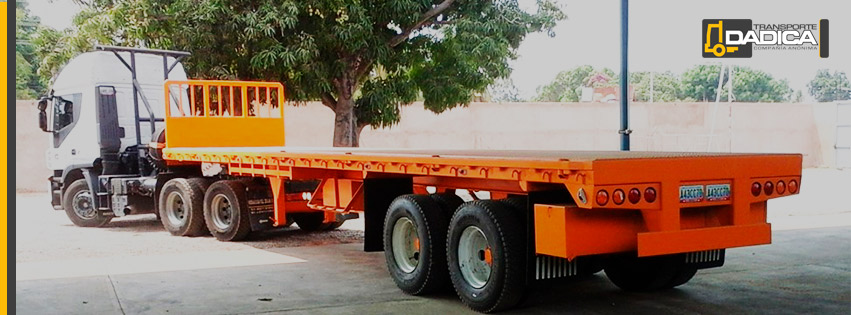
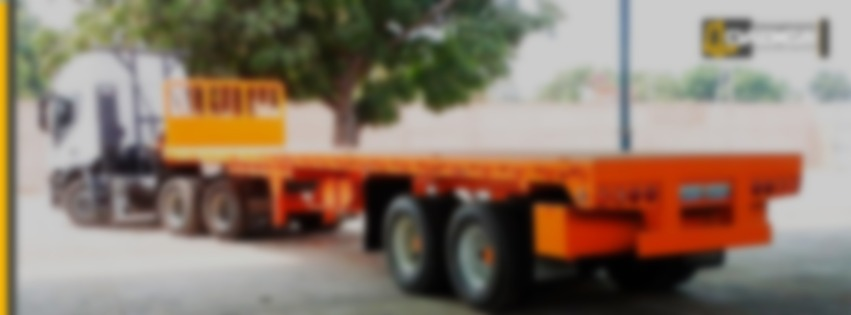
improving

diff --git a/app/page.jsx b/app/page.jsx
@@ -16,6 +16,9 @@ import {
     Box,
     SimpleGrid,
     Stack,
+    Divider,
+    Anchor,
+    Group,
 } from '@mantine/core';
 
 import { Carousel } from '@mantine/carousel';
@@ -25,7 +28,7 @@ import { useRef } from 'react';
 import Autoplay from 'embla-carousel-autoplay';
 import { useRouter } from 'next/navigation';
 import DadicaLanding from './DadicaLanding';
-import { IconMail } from '@tabler/icons-react';
+import { IconMail, IconPhone, IconWorld } from '@tabler/icons-react';
 
 export default function LandingPage() {
     const router = useRouter();
@@ -41,85 +44,106 @@ export default function LandingPage() {
 
 
     return (
-        <Container size="xl" mx={isMobile && 0} px={isMobile ? 0 : 'xl'} py={0} mt={isMobile ? 0 : 20}>
-            {/* 🖼 Carrusel inicial */}
-            <Carousel
-                loop
-                withIndicators
-                plugins={[autoplay.current]}
-                onMouseEnter={autoplay.current.stop}
-                onMouseLeave={autoplay.current.reset}
-                slideSize="100%"
-                mx={isMobile && 0}
-                style={{
-                    borderRadius: isMobile ? 0 : theme.radius.md,
-                    overflow: 'hidden',
-                    marginBottom: '2rem',
-                }}
-            >
-                <Carousel.Slide>
-                    <Image
-                        src="/carrusel1.jpg"
-                        alt="carrusel 1"
-                        radius={isMobile ? 0 : theme.radius.md}
-                        fit="cover"
-                        height={isMobile ? 220 : 500}
-                    />
-                </Carousel.Slide>
-                <Carousel.Slide>
-                    <Image
-                        src="/carrusel2.jpg"
-                        alt="carrusel 2"
-                        radius={isMobile ? 0 : theme.radius.md}
-                        fit="cover"
-                        height={isMobile ? 220 : 500}
-                    />
-                </Carousel.Slide>
-                <Carousel.Slide>
-                    <Image
-                        src="/carrusel3.jpg"
-                        alt="carrusel 3"
-                        radius={isMobile ? 0 : theme.radius.md}
-                        fit="cover"
-                        height={isMobile ? 220 : 500}
-                    />
-                </Carousel.Slide>
+        <>
+            <Container size="xl" mx={isMobile && 0} px={isMobile ? 0 : 'xl'} py={0} mt={isMobile ? 0 : 20}>
+                {/* 🖼 Carrusel inicial */}
+                <Carousel
+                    loop
+                    withIndicators
+                    plugins={[autoplay.current]}
+                    onMouseEnter={autoplay.current.stop}
+                    onMouseLeave={autoplay.current.reset}
+                    slideSize="100%"
+                    mx={isMobile && 0}
+                    style={{
+                        borderRadius: isMobile ? 0 : theme.radius.md,
+                        overflow: 'hidden',
+                        marginBottom: '2rem',
+                    }}
+                >
+                    <Carousel.Slide>
+                        <Image
+                            src="/carrusel1.jpg"
+                            alt="carrusel 1"
+                            radius={isMobile ? 0 : theme.radius.md}
+                            fit="cover"
+                            height={isMobile ? 220 : 500}
+                        />
+                    </Carousel.Slide>
+                    <Carousel.Slide>
+                        <Image
+                            src="/carrusel2.jpg"
+                            alt="carrusel 2"
+                            radius={isMobile ? 0 : theme.radius.md}
+                            fit="cover"
+                            height={isMobile ? 220 : 500}
+                        />
+                    </Carousel.Slide>
+                    <Carousel.Slide>
+                        <Image
+                            src="/carrusel3.jpg"
+                            alt="carrusel 3"
+                            radius={isMobile ? 0 : theme.radius.md}
+                            fit="cover"
+                            height={isMobile ? 220 : 500}
+                        />
+                    </Carousel.Slide>
+                </Carousel>
+                <DadicaLanding isMobile={isMobile} />
+                {/* 📬 Contacto */}
+                <Paper
+                    radius={isMobile ? 0 : theme.radius.lg}
+                    px={isMobile ? 24 : 80}
+                    py={60}
+                    mt={60}
+                    shadow="lg"
+                    bg="white"
+                    withBorder
+                >
+                    <Stack align="center" spacing="md">
+                        <Title order={3} tt="uppercase" c="dark">
+                            ¿Interesado en nuestros servicios?
+                        </Title>
+                        <Text size="md" ta="center" c="dimmed" maw={500}>
+                            Escríbenos y te contactaremos en breve. Estamos listos para ayudarte con soluciones logísticas confiables y eficientes.
+                        </Text>
+                        <Button
+                            leftSection={<IconMail size={18} />}
+                            onClick={handleMailto}
+                            variant="gradient"
+                            gradient={{ from: 'blue', to: 'cyan' }}
+                            size="md"
+                        >
+                            Enviar correo
+                        </Button>
+                    </Stack>
+                </Paper>
+            </Container>
+            <Box bg="#383838ff" p={0} py={15} m={0} mt={60}>
+                <Container size="lg">
+                    <Stack align="center" spacing="xs">
+                        <Text size="sm" tt="uppercase" fw={700} c="lightgray">
+                            Transporte DADICA C.A.
+                        </Text>
+                        <Text size="sm" c="lightgray">Somos su socio estratégico en logística y transporte pesado.</Text>
+                        <Group gap="xs">
+                            <IconPhone size={16} color="lightgray"/>
+                            <Text size="sm" c="lightgray">+58 412 075 6457</Text>
+                        </Group>
+                        <Group gap="xs">
+                            <IconMail size={16} color="lightgray"/>
+                            <Anchor href="mailto:transportedadica@gmail.com" size="sm">
+                                transportedadica@gmail.com
+                            </Anchor>
+                        </Group>
+                        
+                        <Text size="xs" mt="sm" c="lightgray">
+                            © {new Date().getFullYear()} Transporte DADICA C.A. | RIF: J-29553660-7
+                        </Text>
+                    </Stack>
+                </Container>
+            </Box>
+        </>
 
-            </Carousel>
-
-            <DadicaLanding isMobile = {isMobile}/>
-
-
-            {/* 📬 Contacto */}
-            <Paper
-                radius={isMobile ? 0 : theme.radius.lg}
-                px={isMobile ? 24 : 80}
-                py={60}
-                mt={60}
-                shadow="lg"
-                bg="white"
-                withBorder
-            >
-                <Stack align="center" spacing="md">
-                    <Title order={3} tt="uppercase" c="dark">
-                        ¿Interesado en nuestros servicios?
-                    </Title>
-                    <Text size="md" ta="center" c="dimmed" maw={500}>
-                        Escríbenos y te contactaremos en breve. Estamos listos para ayudarte con soluciones logísticas confiables y eficientes.
-                    </Text>
-                    <Button
-                        leftSection={<IconMail size={18} />}
-                        onClick={handleMailto}
-                        variant="gradient"
-                        gradient={{ from: 'blue', to: 'cyan' }}
-                        size="md"
-                    >
-                        Enviar correo
-                    </Button>
-                </Stack>
-            </Paper>
-
-
-        </Container>
     );
 }

diff --git a/app/DadicaLanding.jsx b/app/DadicaLanding.jsx
@@ -17,10 +17,10 @@ import { IconTruck, IconRecycle, IconShieldCheck, IconUsersGroup } from '@tabler
 
 export default function DadicaLanding({isMobile}) {
     return (
-        <Box bg="#f5f5f5" py="xl">
-            <Container size="lg">
+        <Box m={0} p={0} >
+           
                 {/* Encabezado */}
-                <Card withBorder radius="md" p="xl" mb="xl" bg="white">
+                <Card  radius={!isMobile ? "md" : 0} p="xl" mb="xl" mx={0} bg="white">
                     {!isMobile ? <Grid>
                         <Grid.Col span={6}>
                             <Image src="/logo.jpg" alt="Logo DADICA" radius="md" />
@@ -41,7 +41,7 @@ export default function DadicaLanding({isMobile}) {
                 </Card>
 
                 {/* Historia */}
-                <Card withBorder radius="md" p="xl" mb="xl" bg="white">
+                <Card  radius={!isMobile ? "md" : 0} p="xl" mb="xl" bg="white">
                     <Title order={2} align="center" tt="uppercase">Quienes Somos</Title>
                     <Divider my="sm" />
                     <Text size="lg" align="center" mt="md">
@@ -55,7 +55,7 @@ export default function DadicaLanding({isMobile}) {
                 {/* Misión y Visión */}
                 {!isMobile ? <Grid mb="xl">
                     <Grid.Col span={6}>
-                        <Card withBorder radius="md" p="xl" bg="white">
+                        <Card  radius={!isMobile ? "md" : 0} p="xl" bg="white">
                             <Title order={3} tt="uppercase">Misión</Title>
                             <Divider my="sm" />
                             <Text>
@@ -64,7 +64,7 @@ export default function DadicaLanding({isMobile}) {
                         </Card>
                     </Grid.Col>
                     <Grid.Col span={6}>
-                        <Card withBorder radius="md" p="xl" bg="white">
+                        <Card  radius={!isMobile ? "md" : 0} p="xl" bg="white">
                             <Title order={3} tt="uppercase">Visión</Title>
                             <Divider my="sm" />
                             <Text>
@@ -74,14 +74,14 @@ export default function DadicaLanding({isMobile}) {
                     </Grid.Col>
                 </Grid>:
                 <Stack mb="xl" spacing="xl">
-                    <Card withBorder radius="md" p="xl" bg="white">
+                    <Card  radius={!isMobile ? "md" : 0} p="xl" bg="white">
                         <Title order={3} tt="uppercase">Misión</Title>
                         <Divider my="sm" />
                         <Text>
                             Garantizar un servicio seguro y eficiente, cuidando al trabajador y al medio ambiente, con enfoque en industrias clave.
                         </Text>
                     </Card>
-                    <Card withBorder radius="md" p="xl" bg="white">
+                    <Card  radius={!isMobile ? "md" : 0} p="xl" bg="white">
                         <Title order={3} tt="uppercase">Visión</Title>
                         <Divider my="sm" />
                         <Text>
@@ -92,7 +92,7 @@ export default function DadicaLanding({isMobile}) {
             }
 
                 {/* Servicios */}
-                <Card withBorder radius="md" p="xl" mb="xl" bg="white">
+                <Card  radius={!isMobile ? "md" : 0} p="xl" mb="xl" bg="white">
                     <Title order={2} tt="uppercase">Servicios Ofrecidos</Title>
                     <Divider my="sm" />
                     <List
@@ -107,7 +107,7 @@ export default function DadicaLanding({isMobile}) {
                 </Card>
 
                 {/* Flota */}
-                <Card withBorder radius="md" p="xl" mb="xl" bg="white">
+                <Card  radius={!isMobile ? "md" : 0} p="xl" mb="xl" bg="white">
                     <Title order={2} tt="uppercase">Flota y Equipamiento</Title>
                     <Divider my="sm" />
                     <Group gap="xs" wrap="wrap">
@@ -121,7 +121,7 @@ export default function DadicaLanding({isMobile}) {
                 </Card>
 
                 {/* Seguridad */}
-                <Card withBorder radius="md" p="xl" mb="xl" bg="white">
+                <Card  radius={!isMobile ? "md" : 0} p="xl" mb="xl" bg="white">
                     <Title order={2} tt="uppercase">Seguridad y Permisología</Title>
                     <Divider my="sm" />
                     <Text>
@@ -130,9 +130,9 @@ export default function DadicaLanding({isMobile}) {
                 </Card>
 
                 {/* Sostenibilidad y RSE */}
-                <Grid mb="xl">
+                {!isMobile ? <Grid mb="xl">
                     <Grid.Col span={6}>
-                        <Card withBorder radius="md" p="xl" bg="white">
+                        <Card  radius={!isMobile ? "md" : 0} p="xl" bg="white">
                             <Group>
                                 <IconRecycle size={32} />
                                 <Title order={3} tt="uppercase">Sostenibilidad</Title>
@@ -144,7 +144,7 @@ export default function DadicaLanding({isMobile}) {
                         </Card>
                     </Grid.Col>
                     <Grid.Col span={6}>
-                        <Card withBorder radius="md" p="xl" bg="white">
+                        <Card  radius={!isMobile ? "md" : 0} p="xl" bg="white">
                             <Group>
                                 <IconUsersGroup size={32} />
                                 <Title order={3} tt="uppercase">Responsabilidad Social</Title>
@@ -156,9 +156,33 @@ export default function DadicaLanding({isMobile}) {
                         </Card>
                     </Grid.Col>
                 </Grid>
+                :
+                <Stack mb="xl" spacing="xl">
+                    <Card  radius={!isMobile ? "md" : 0} p="xl" bg="white">
+                        <Group>
+                            <IconRecycle size={32} />
+                            <Title order={3} tt="uppercase">Sostenibilidad</Title>
+                        </Group>
+                        <Divider my="sm" />
+                        <Text>
+                            Protocolos de mantenimiento, capacitación en conducción segura, reducción de emisiones y gestión de residuos.
+                        </Text>
+                    </Card>
+                    <Card  radius={!isMobile ? "md" : 0} p="xl" bg="white">
+                        <Group>
+                            <IconUsersGroup size={32} />
+                            <Title order={3} tt="uppercase">Responsabilidad Social</Title>
+                        </Group>
+                        <Divider my="sm" />
+                        <Text>
+                            Educación vial, sensibilización ambiental y participación comunitaria. Compromiso con la transparencia y el desarrollo sostenible.
+                        </Text>
+                    </Card>
+                </Stack>
+            }
 
                 {/* Experiencia */}
-                <Card withBorder radius="md" p="xl" mb="xl" bg="white">
+                <Card  radius={!isMobile ? "md" : 0} p="xl" mb="xl" bg="white">
                     <Title order={2} tt="uppercase">Experiencia en la Industria</Title>
                     <Divider my="sm" />
                     <Text>
@@ -167,7 +191,7 @@ export default function DadicaLanding({isMobile}) {
                 </Card>
 
                 {/* Beneficios */}
-                <Card withBorder radius="md" p="xl" mb="xl" bg="white">
+                <Card  radius={!isMobile ? "md" : 0} p="xl" mb="xl" bg="white">
                     <Title order={2} tt="uppercase">Beneficios</Title>
                     <Divider my="sm" />
                     <List
@@ -181,12 +205,7 @@ export default function DadicaLanding({isMobile}) {
                     </List>
                 </Card>
 
-                {/* Footer */}
-                <Stack align="center" spacing="xs" mt="xl">
-                    <Text size="sm">Somos su socio estratégico en logística y transporte pesado.</Text>
-                    <Text size="sm">📞 +58 4120756457 | 📧 transportedadica@gmail.com</Text>
-                </Stack>
-            </Container>
+         
         </Box>
     );
 }

diff --git a/app/layout.jsx b/app/layout.jsx
@@ -113,13 +113,16 @@ export default function RootLayout({ children }) {
               <AppShell.Main
                 px={0}
                 mt={showHeader ? isMobile ? 40 : 50 : 0}
-                mx={isMobile ? 0 : 10}
+                mb={0}
+                pb={0}
+                mx={0}
+                style={{ backgroundColor: "#18120179" }}
               >
                 {children}
                 <Image
                   style={{
                     height: 1100,
-                    opacity: 0.2,
+                    opacity: 0.8,
                     position: 'fixed',
                     top: -140,
                     left: 0,
